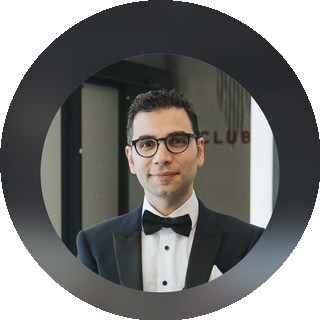
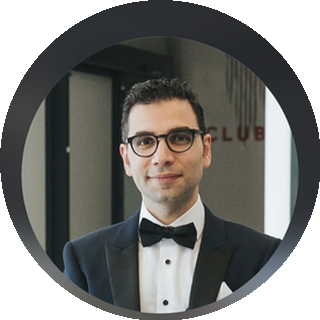
fix: profile7 + profile8 now perfectly fit the circle frame
- profile7: brightness-probed face position to find head/face at
  y=0.42h. Cropped 0.75w diameter square centered there. Face,
  neck, and upper shoulders now fill the avatar circle properly.
- profile8: removed visible 7% ring border that was bleeding from
  the original circle outline by inset-cropping inner 86%
- Slotted profile7 into .av-8 (was the last gradient placeholder
  before .av-9). Cluster now: 8 real profiles + 1 gradient
- Added .originals/ backup folder so source files are never lost
  to overwrites again

diff --git a/index.html b/index.html
@@ -150,8 +150,8 @@
     .av-4 { background-image: url('/profiles/profile4.png'); }
     .av-5 { background-image: url('/profiles/profile5.png'); }
     .av-6 { background-image: url('/profiles/profile6.png'); }
-    .av-7 { background-image: url('/profiles/profile8.png'); }
-    .av-8 { background-image: linear-gradient(135deg,#ba68c8,#7b1fa2); }
+    .av-7 { background-image: url('/profiles/profile7.png'); }
+    .av-8 { background-image: url('/profiles/profile8.png'); }
     .av-9 { background-image: linear-gradient(135deg,#ffd54f,#ffa000); }
     .social-proof-text {
       font-family: var(--font-sans);
